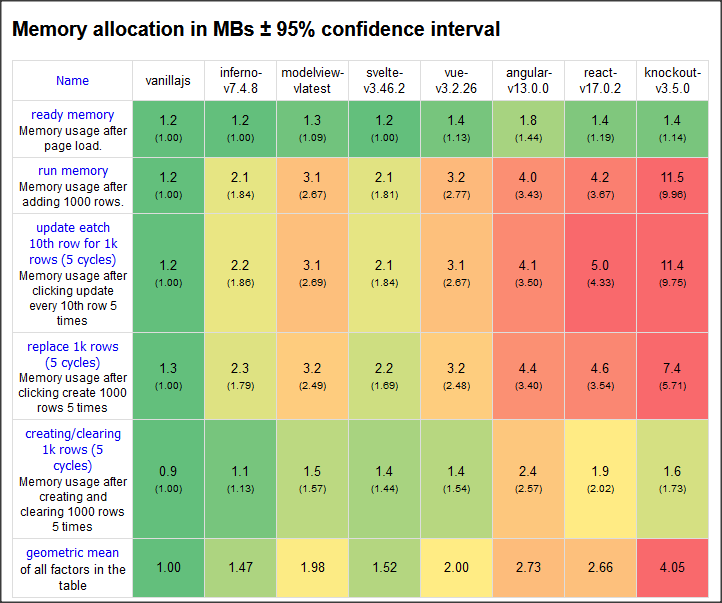
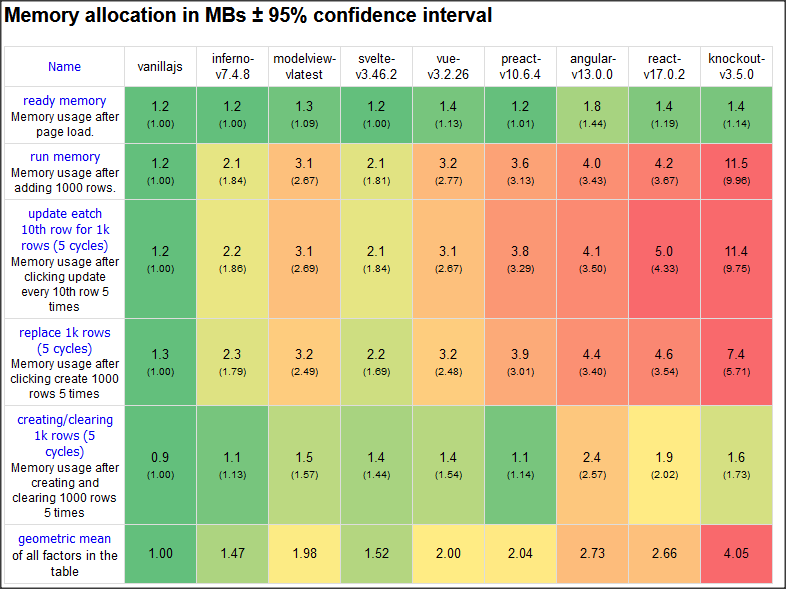
preact benchmark added

diff --git a/README.md b/README.md
@@ -202,7 +202,7 @@ someCondition ? view.unit(<ul><li>{text}</li><li>some static text</li></ul>) : v
 In this case we mark the whole html node to be morphed as a single unit (ie `view.unit(..)`), instead of recursively piece-by-piece, so it is replaced at once and we have our expected result.
 
 
-ModelView idea and implementation was based on some requirements. One of those is the ability of other actors to manipulate the DOM except ModelView itself. This was a desired feature. **ModelView does not claim exclusive manipulation of the DOM** (unlike frameworks like React or Vue or Inferno), other actors can manipulate the DOM and ModelView will still work (at least in most cases of interest). In fact ModelView itself provides some necessary direct DOM-level manipulation methods (eg to handle some things even faster, like add/move/remove nodes directly) which can be used along with ModelView's general DOM morphing functionality.
+ModelView idea and implementation was based on some requirements. One of those is the ability of other actors to manipulate the DOM except ModelView itself. This was a desired feature. **ModelView does not claim exclusive manipulation of the DOM** (unlike frameworks like React or Vue or Inferno), other actors can manipulate the DOM and ModelView will still work (at least in most cases of interest). This is because ModelView relies on the **actual DOM** (and not any virtual DOM) which is the **only reliable source of truth**. In fact ModelView itself provides some necessary direct DOM-level manipulation methods (eg to handle some things even faster, like add/move/remove nodes directly) which can be used along with ModelView's general DOM morphing functionality.
 
 Take a look at the examples and manual to see how easy and intuitive is to make applications with ModelView.
 
